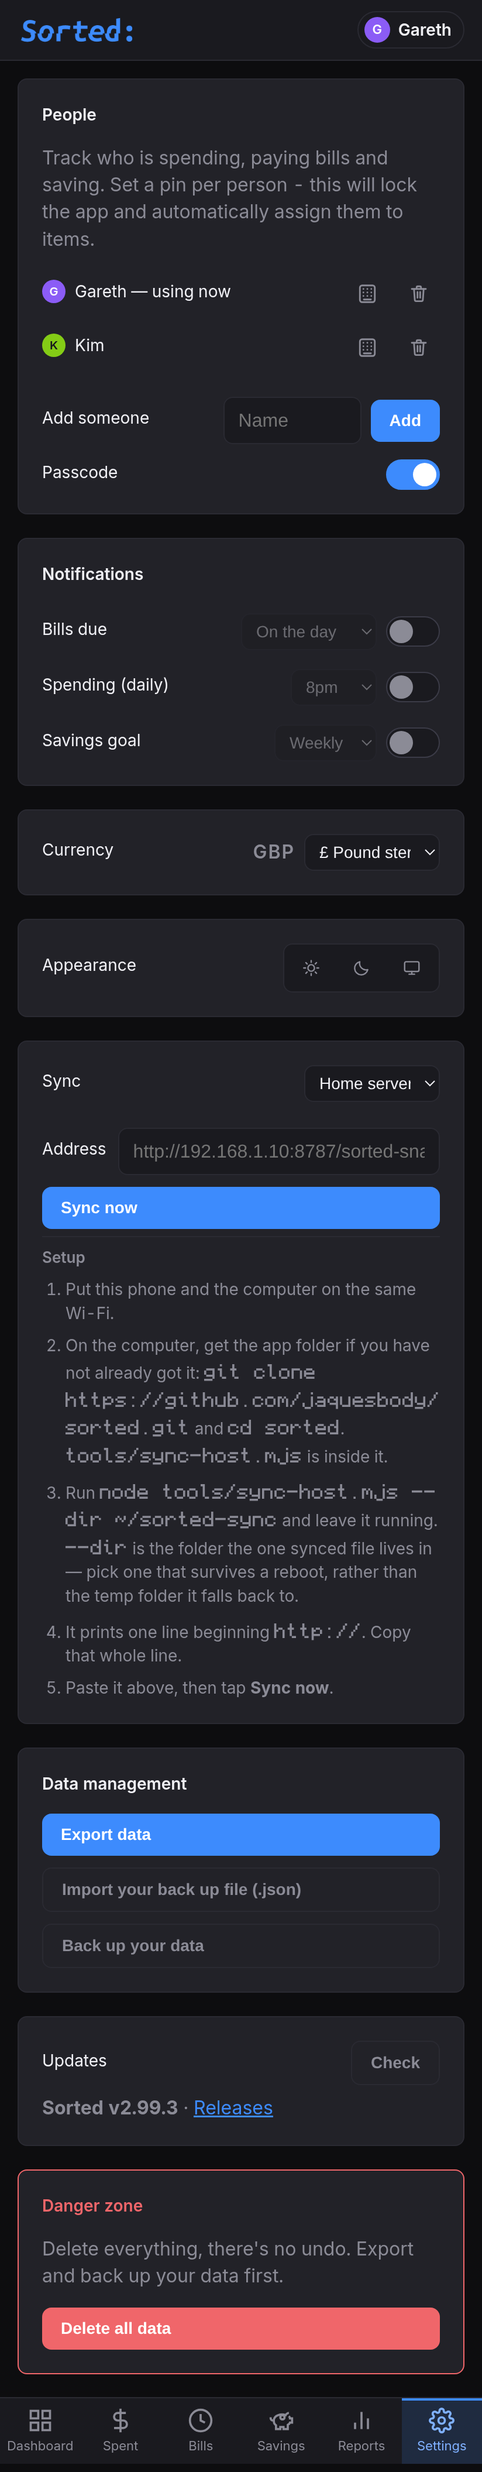
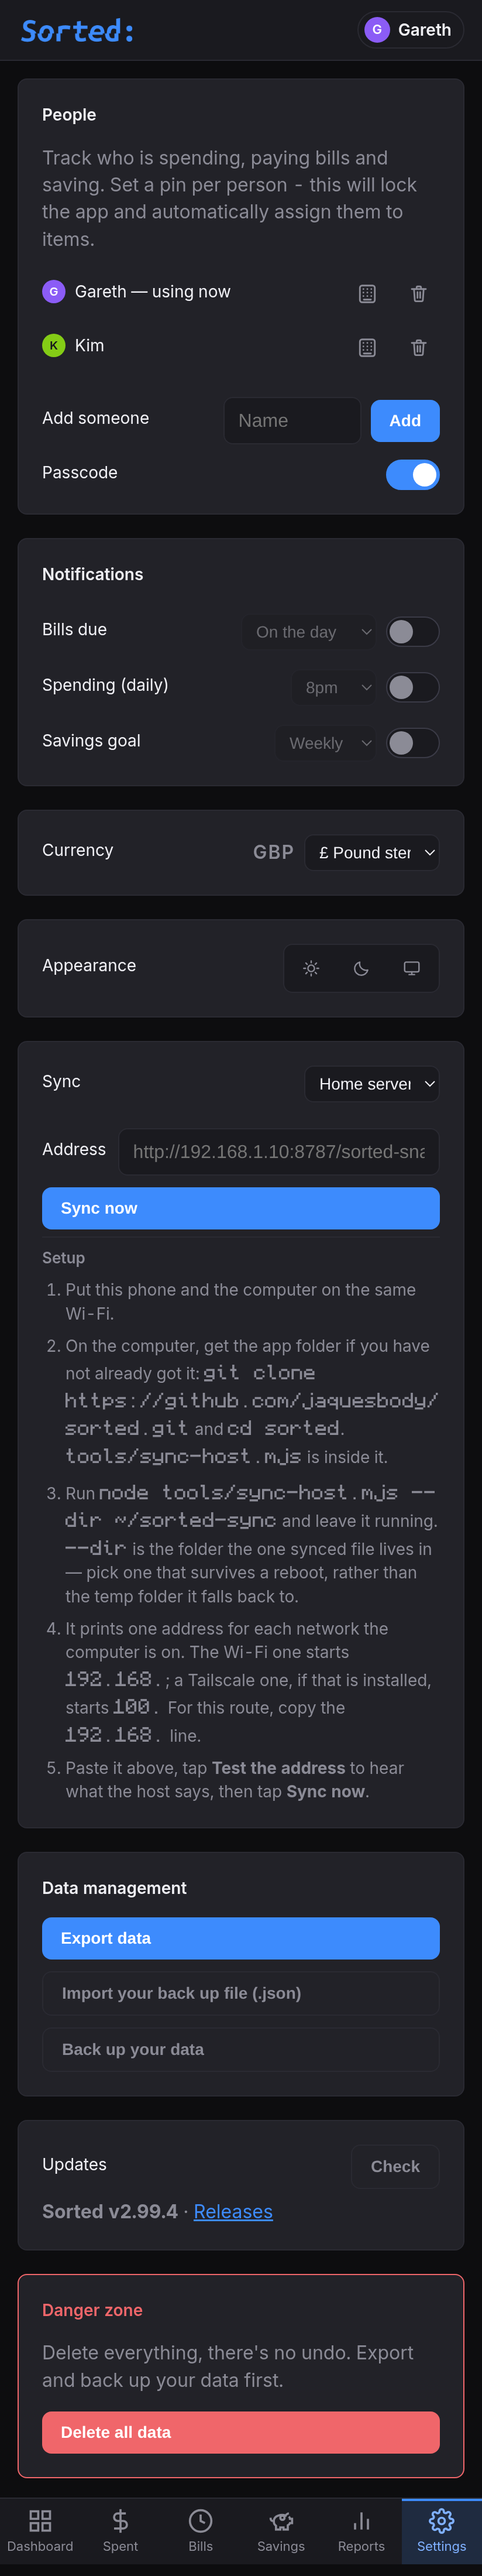
v2.99.4: say which address failed, and which of the four things went wrong
A sync that could not reach the host reported "Failed to fetch" — the browser's
own wording, passed straight through, and the same sentence for a dead machine,
a phone on the wrong network, a wrong file path and somebody else's server on
that port. It named none of them, and never mentioned the address, which is the
one thing all four have in common.

The setup guide was wrong in the same direction: the host prints one address for
each network it is on, and on a machine with Tailscale that is two lines, not the
one the guide promised.

- Test the address: a second button, shown once an address is in the box, which
  asks the host's /health and reports what it found rather than guessing.
- An address that is not one, or that is not the host's only path, is refused
  before anything is sent anywhere.
- "Failed to fetch" becomes "No answer from <address>..."; "Host said 404"
  becomes what to fix. Answers that already said something specific are left
  alone.
- The guide says which line belongs to which route, and what each starts with.
- The probe has a 6-second limit so it reports rather than hanging; syncing
  itself is untouched.

Read as a patch: the app's syncing does exactly what it did — the new button
reports, it does not sync. If a new control counts as gaining behaviour, this
should have been 2.100.0.

Tests: 678 passed, 0 failed (5 new).

Changed region(s): [[0.0303, 0.0, 0.9709, 1.0], [0.8192, 0.0, 0.9102, 0.0312], [0.7585, 0.0, 0.7888, 0.0312]]

diff --git a/docs/static/js/sync.js b/docs/static/js/sync.js
@@ -97,8 +97,8 @@ const SYNC_SETUP_STEPS = {
     'Put this phone and the computer on the same Wi-Fi.',
     'On the computer, get the app folder if you have not already got it: <code>git clone https://github.com/jaquesbody/sorted.git</code> and <code>cd sorted</code>. <code>tools/sync-host.mjs</code> is inside it.',
     'Run <code>node tools/sync-host.mjs --dir ~/sorted-sync</code> and leave it running. <code>--dir</code> is the folder the one synced file lives in — pick one that survives a reboot, rather than the temp folder it falls back to.',
-    'It prints one line beginning <code>http://</code>. Copy that whole line.',
-    'Paste it above, then tap <strong>Sync now</strong>.'
+    'It prints one address for each network the computer is on. The Wi-Fi one starts <code>192.168.</code>; a Tailscale one, if that is installed, starts <code>100.</code> For this route, copy the <code>192.168.</code> line.',
+    'Paste it above, tap <strong>Test the address</strong> to hear what the host says, then tap <strong>Sync now</strong>.'
   ],
   tailscale: [
     'Install Tailscale on the computer that stays on, and sign in.',
@@ -106,7 +106,7 @@ const SYNC_SETUP_STEPS = {
     'On the computer, get the app folder if you have not already got it: <code>git clone https://github.com/jaquesbody/sorted.git</code> and <code>cd sorted</code>. <code>tools/sync-host.mjs</code> is inside it.',
     'Run <code>node tools/sync-host.mjs --dir ~/sorted-sync</code> and leave it running. <code>--dir</code> is the folder the one synced file lives in — pick one that survives a reboot, rather than the temp folder it falls back to.',
     'Open Tailscale on the computer and copy its IP — it starts <code>100.</code>',
-    'Paste <code>http://that-ip:8787/sorted-snapshot.json</code> above, then tap <strong>Sync now</strong>.'
+    'Paste <code>http://that-ip:8787/sorted-snapshot.json</code> above, tap <strong>Test the address</strong>, then tap <strong>Sync now</strong>.'
   ],
   syncthing: [
     'Install Syncthing on the computer and on this phone, and pair them.',
@@ -248,7 +248,7 @@ function syncStamp(value) {
 async function readSyncSnapshot(url) {
   const res = await syncFetch(url, { method: 'GET' });
   if (res.status === 404) return null;          // nothing there yet
-  if (!res.ok) throw new Error('Host said ' + res.status);
+  if (!res.ok) throw new Error('The host answered ' + res.status + '.');
   const text = await res.text();
   let parsed;
   try { parsed = JSON.parse(text); } catch (err) {
@@ -258,13 +258,19 @@ async function readSyncSnapshot(url) {
   return parsed;
 }
 
+// A write can only fail at the address, and the host answers exactly one path,
+// so the two cases are "wrong path" and "something else went wrong over there".
+// "Host said 404" named neither.
 async function writeSyncSnapshot(url, snapshot) {
   const res = await syncFetch(url, {
     method: 'PUT',
     headers: { 'content-type': 'application/json' },
     body: JSON.stringify(snapshot)
   });
-  if (!res.ok) throw new Error('Host said ' + res.status);
+  if (res.status === 404) {
+    throw new Error('Nothing at that address on the host. It should end with /sorted-snapshot.json.');
+  }
+  if (!res.ok) throw new Error('The host answered ' + res.status + ', so nothing was saved.');
   return true;
 }
 
@@ -278,17 +284,24 @@ async function writeSyncSnapshot(url, snapshot) {
 // two. The browser build has none of this and goes straight to fetch.
 async function syncFetch(url, options) {
   const cap = window.Capacitor;
+  const opts = options || {};
+  // A probe has to report, not hang. fetch() has no timeout of its own, and an
+  // address that silently drops packets — a machine that is off, a phone on the
+  // wrong network — leaves the browser sitting there for over a minute before it
+  // finally says "Failed to fetch". Only the probe passes a limit; syncing
+  // itself does not, so a slow but working sync is never cut short.
+  const timeoutMs = Number(opts.timeoutMs) > 0 ? Number(opts.timeoutMs) : 0;
   if (cap && cap.isNativePlatform && cap.isNativePlatform() && cap.CapacitorHttp) {
     const response = await cap.CapacitorHttp.request({
       url: url,
-      method: options.method || 'GET',
-      headers: options.headers || {},
-      data: options.body,
+      method: opts.method || 'GET',
+      headers: opts.headers || {},
+      data: opts.body,
       // Without this a PUT body arrives as form-encoded and the host reads
       // garbage rather than JSON.
       serializer: 'json',
-      connectTimeout: 4000,
-      readTimeout: 8000
+      connectTimeout: timeoutMs || 4000,
+      readTimeout: timeoutMs || 8000
     });
     return {
       ok: response.status >= 200 && response.status < 300,
@@ -297,7 +310,75 @@ async function syncFetch(url, options) {
         ? response.data : JSON.stringify(response.data))
     };
   }
-  return fetch(url, options);
+  if (timeoutMs && typeof AbortController === 'function') {
+    const controller = new AbortController();
+    const timer = setTimeout(() => controller.abort(), timeoutMs);
+    try {
+      return await fetch(url, Object.assign({}, opts, { signal: controller.signal }));
+    } finally {
+      clearTimeout(timer);
+    }
+  }
+  return fetch(url, opts);
+}
+
+// ---------------------------------------------------------------- diagnosis
+
+// fetch() says "Failed to fetch" for every one of: nothing listening, the wrong
+// network, and a request the platform refused. Three different problems, one
+// sentence that names none of them — and the address is the common cause. So
+// name the address, and say what to look at.
+function syncHostBase(url) {
+  try { return new URL(url).origin; } catch (err) { return null; }
+}
+
+function syncReachMessage(url, err) {
+  const raw = String((err && err.message) || err);
+  const isTransport = /failed to fetch|networkerror|network error|load failed|timed? ?out|abort/i.test(raw);
+  if (!isTransport) return raw;
+  return 'No answer from ' + (syncHostBase(url) || url)
+    + '. Is the host running, and can this device reach it?';
+}
+
+// What "Test the address" asks: is there a Sorted host at the other end, and
+// what does it hold? The host answers /health with exactly that, and it is the
+// difference between "the machine is not running", "something else is on that
+// port" and "the host is fine, the address is not its file" — three outcomes
+// that reach the user today as the same sentence.
+async function syncTestAddress() {
+  const settings = syncSettings();
+  const transport = SYNC_TRANSPORTS[settings.transport];
+  if (!transport || !transport.available) {
+    return { state: 'unavailable', message: 'That sync option is not available yet.' };
+  }
+  const url = settings.url;
+  if (!url) return { state: 'empty', message: 'Put the address in first.' };
+  const base = syncHostBase(url);
+  if (!base) {
+    return { state: 'malformed', message: 'That is not a web address. Copy the whole line the host printed.' };
+  }
+  // The host answers two paths: the snapshot and /health. Two of the ways this
+  // is got wrong are visible without asking it anything, and they are the two
+  // cheapest to fix.
+  if (!/\/sorted-snapshot\.json$/.test(new URL(url).pathname)) {
+    return { state: 'wrong-path', message: 'The address has to end with /sorted-snapshot.json — that is the only file the host serves.' };
+  }
+
+  let res;
+  try {
+    res = await syncFetch(base + '/health', { method: 'GET', timeoutMs: 6000 });
+  } catch (err) {
+    return { state: 'unreachable', message: 'No answer from ' + base + '. Is the host running, and can this device reach it?' };
+  }
+  let body = null;
+  try { body = JSON.parse(await res.text()); } catch (err) { body = null; }
+  if (!res.ok || !body || body.ok !== true) {
+    return { state: 'not-the-host', message: 'Something answered at ' + base + ', but it is not the Sorted host.' };
+  }
+  if (body.snapshot) {
+    return { state: 'ready-with-file', message: 'The host is running, and it already holds a snapshot. Sync now compares the two.' };
+  }
+  return { state: 'ready-empty', message: 'The host is running, with nothing in its folder yet. Sync now puts your data there.' };
 }
 
 // ---------------------------------------------------------------- syncing
@@ -318,7 +399,14 @@ async function syncNow() {
   try {
     remote = await readSyncSnapshot(settings.url);
   } catch (err) {
-    return { ok: false, error: String((err && err.message) || err), where: 'host' };
+    return {
+      ok: false,
+      error: syncReachMessage(settings.url, err),
+      where: 'host',
+      // The words the transport actually used, kept for the gate rather than
+      // shown: it is the one thing that is not worth reading.
+      detail: String((err && err.message) || err)
+    };
   }
 
   const local = await buildSyncSnapshot();

diff --git a/tools/harness/test.js b/tools/harness/test.js
@@ -5787,6 +5787,84 @@ async function runSuite(driverBase) {
       check('a file that is not a snapshot is a failure',
         settings.detail.aFileThatIsNotASnapshotIsAFailure.pass, settings);
 
+      // 6. "Test the address", and the message it exists to replace. Every way
+      //    of getting the address wrong reaches the user as the same sentence —
+      //    "Failed to fetch" — which is the browser's wording and names none of
+      //    them. Two are visible without asking the host anything; the rest are
+      //    what the host's own /health is for.
+      const diagnosis = await run(`
+        const out = {};
+        const t = (label, got, want) => { out[label] = { got: got, want: want, pass: got === want }; };
+        const realFetch = window.fetch;
+        window.__asked = [];
+        window.__host = null;          // null stands for "nothing is listening"
+        window.fetch = async (url) => {
+          window.__asked.push(String(url));
+          if (window.__host === null) throw new TypeError('Failed to fetch');
+          return { ok: true, status: 200, text: async () => JSON.stringify(window.__host) };
+        };
+
+        setSyncSettings({ transport: 'lan', url: '' });
+        t('noAddressIsSaidPlainly', (await syncTestAddress()).state, 'empty');
+
+        setSyncSettings({ url: '192.168.1.10:8787/sorted-snapshot.json' });
+        t('junkIsNotAnAddress', (await syncTestAddress()).state, 'malformed');
+
+        setSyncSettings({ url: 'http://192.168.1.10:8787/' });
+        t('theWrongFileIsNamed', (await syncTestAddress()).state, 'wrong-path');
+
+        setSyncSettings({ url: 'http://192.168.1.10:8787/sorted-snapshot.json' });
+        t('aDeadHostIsUnreachable', (await syncTestAddress()).state, 'unreachable');
+
+        window.__host = { ok: true, snapshot: false, dir: '/home/x/sorted-sync' };
+        t('aHostWithAnEmptyFolder', (await syncTestAddress()).state, 'ready-empty');
+        window.__host = { ok: true, snapshot: true, dir: '/home/x/sorted-sync' };
+        t('aHostThatAlreadyHasTheFile', (await syncTestAddress()).state, 'ready-with-file');
+        t('theProbeAsksHealthNotTheFile',
+          window.__asked[window.__asked.length - 1], 'http://192.168.1.10:8787/health');
+
+        // Something else entirely on that port — the wrong address rather than
+        // the wrong network, and the one case a reachability test cannot tell
+        // from success.
+        window.__host = { hello: 'a web server, but not this one' };
+        t('somethingElseOnThatPort', (await syncTestAddress()).state, 'not-the-host');
+        window.__host = null;
+
+        // And what a dead host produces, which is the whole point: the address
+        // it could not reach, and what to check, instead of the browser's words.
+        const dead = await syncNow();
+        t('aDeadHostNamesTheAddress', /No answer from http:\\/\\/192\\.168\\.1\\.10:8787/.test(dead.error), true);
+        t('andItSaysWhatToCheck', /Is the host running/.test(dead.error), true);
+        t('andTheBrowserWordingIsNotShown', /Failed to fetch/.test(dead.error), false);
+        t('andTheRawWordingIsKeptAsideRatherThanThrownAway', dead.detail, 'Failed to fetch');
+
+        // An ordinary failure of the host's own is left as it is: it says
+        // something specific, and rewriting it would only make it vaguer.
+        t('aRealAnswerIsPassedThrough', syncReachMessage('http://x/y', new Error('The host answered 500.')), 'The host answered 500.');
+
+        window.fetch = realFetch;
+        localStorage.removeItem('sorted-sync-settings');
+        return { checks: Object.keys(out).length, failures: Object.entries(out).filter(([, v]) => !v.pass).map(([k]) => k), detail: out };
+      `);
+      check('the address is read before anything is sent to it',
+        diagnosis.detail.noAddressIsSaidPlainly.pass
+        && diagnosis.detail.junkIsNotAnAddress.pass
+        && diagnosis.detail.theWrongFileIsNamed.pass, diagnosis);
+      check('and the host is asked, so a dead machine, an empty folder and somebody else\'s server are told apart',
+        diagnosis.detail.aDeadHostIsUnreachable.pass
+        && diagnosis.detail.aHostWithAnEmptyFolder.pass
+        && diagnosis.detail.aHostThatAlreadyHasTheFile.pass
+        && diagnosis.detail.somethingElseOnThatPort.pass, diagnosis);
+      check('the probe asks /health, not the snapshot',
+        diagnosis.detail.theProbeAsksHealthNotTheFile.pass, diagnosis);
+      check('a host that cannot be reached names the address, not the browser',
+        diagnosis.detail.aDeadHostNamesTheAddress.pass
+        && diagnosis.detail.andItSaysWhatToCheck.pass
+        && diagnosis.detail.andTheBrowserWordingIsNotShown.pass
+        && diagnosis.detail.andTheRawWordingIsKeptAsideRatherThanThrownAway.pass, diagnosis);
+      check('an answer that does say something is left alone',
+        diagnosis.detail.aRealAnswerIsPassedThrough.pass, diagnosis);
+
     console.log('\n# notifications: the plan, the memory, and the native route');
 
       // ---------------------------------------------------------------

diff --git a/docs/static/js/app.js b/docs/static/js/app.js
@@ -2,7 +2,7 @@
 
 // Single source for the version shown in the UI. Bump this together with
 // package.json and android/app/build.gradle.
-const APP_VERSION = '2.99.3';
+const APP_VERSION = '2.99.4';
 document.querySelectorAll('.app-version').forEach((el) => { el.textContent = 'v' + APP_VERSION; });
 
 let currentPage = 'dashboard';
@@ -1795,6 +1795,9 @@ function syncSettingsHtml() {
     <button class="btn btn-primary" onclick="syncFromSettings(this)"
             style="width: 100%; margin-top: 10px;"
             ${ready ? '' : 'disabled'}>Sync now</button>
+    ${ready ? `
+    <button class="btn btn-ghost" onclick="syncTestFromSettings(this)"
+            style="width: 100%; margin-top: 8px;">Test the address</button>` : ''}
     <div class="setup-steps">
       <div class="setup-steps-head">Setup</div>
       <ol class="setup-steps-list">
@@ -1827,6 +1830,25 @@ async function syncFromSettings(btn) {
   }
   await renderPage();
   if (message) showToast(message, 6000);
+}
+
+// The Test button, and the reason it exists: the transport can only ever say
+// "Failed to fetch" for a dead host, a wrong network and a refused request
+// alike. Asking the host what it is turns that one sentence into the one thing
+// that is actually wrong.
+async function syncTestFromSettings(btn) {
+  if (btn) { btn.disabled = true; btn.textContent = 'Testing…'; }
+  let result;
+  try {
+    result = await syncTestAddress();
+  } catch (err) {
+    result = { message: String((err && err.message) || err) };
+  }
+  // No renderPage() here, unlike the two buttons above: nothing about the page
+  // has changed, and rebuilding the card would take the button that is being
+  // pressed out from under the cursor.
+  if (btn) { btn.disabled = false; btn.textContent = 'Test the address'; }
+  if (result && result.message) showToast(result.message, 8000);
 }
 
 async function restoreSyncBackupFromSettings(btn) {

diff --git a/README.md b/README.md
@@ -36,9 +36,9 @@ All six are the same household on a 412px phone viewport: Gareth and Kim, a curr
 - Three reminders, each off until you ask for it: bills coming due or already overdue, nothing recorded today, and a savings goal going untouched. On Android these are scheduled by the system, so they arrive whether or not Sorted is open — bills in the morning, the other two at a time you pick. In a browser there's no way to wake the app at a set hour, so the same checks run when you open it and put it away, and the settings say so rather than implying more
 - Start Over: delete everything and start from empty, in Settings. A new install starts empty too — there's no sample data to delete. The first thing it shows instead is a card saying what the app does with your data, and then never again
 - Sync, in Settings: keep a copy of everything on a machine that stays on, and take it with you when you change phone. The whole database goes as one file, and whichever device wrote it last is what the other one gets — so a bill you delete on one device stays deleted on the other, rather than coming back on the next sync. Before anything is replaced, the copy it replaced is kept, with a Restore button beside it
-- Setting it up is **one address and one button**: pick where in the dropdown, paste the address, press **Sync now**. Before anything is replaced, the copy it replaced is kept, with a Restore button beside it
+- Setting it up is **one address and one button**: pick where in the dropdown, paste the address the host printed, press **Sync now**. Once an address is there a second button appears beside it — **Test the address** — which asks the host what it is and says so back: a dead machine, an empty folder, a wrong file and somebody else's server all read differently, rather than as the browser's "Failed to fetch" for all four. Before anything is replaced, the copy it replaced is kept, with a Restore button beside it
 - Underneath sits **a numbered setup guide for whichever transport is selected** — where to get the address from, in order, including the command to run. Two of the four exist and are described as they work: **Home server** over your Wi-Fi, and **Tailscale** (works, and from outside the house, over the same file). **Syncthing** and **Cloud** are in the dropdown with their picker disabled until they exist, and their steps describe what the implementation will take rather than showing nothing
-- To run the other end, on any machine with Node: clone the folder and, from inside it, `node tools/sync-host.mjs --dir ~/sorted-sync`. The script is at `tools/sync-host.mjs`; `--dir` is the folder the one synced file lives in, and left off it goes to the system's temp folder, which a reboot can empty. It serves that one file over your Wi-Fi and nothing else — no database, no accounts, no history — and prints the address to paste into Settings
+- To run the other end, on any machine with Node: clone the folder and, from inside it, `node tools/sync-host.mjs --dir ~/sorted-sync`. The script is at `tools/sync-host.mjs`; `--dir` is the folder the one synced file lives in, and left off it goes to the system's temp folder, which a reboot can empty. It serves that one file over your Wi-Fi and nothing else — no database, no accounts, no history — and prints one address for each network the machine is on, the Wi-Fi one beginning `192.168.` among them, for pasting into Settings
 - Export offers three formats rather than one, because they do three different jobs: a **`.csv`** of every dated movement for Excel, Numbers or Google Sheets, a readable **`.txt`** statement grouped by month, and a **`.pdf`** of the same rows typeset. The **`.json` backup** — the only one Import can read back — is its own **Back up your data** button on the Data Management card, because a backup is a different question from a format for reading. Everything is saved through Android's own save screen, where you pick the folder and the file name, and is an ordinary download in a browser. The PDF is written by the app itself: no print dialog, no library, and no network
 - Reminders, each off until you ask for it, saying exactly this:
   - **"Sorted — bill due"** — *"Rent is due Thursday"* (or *"… is overdue"*)
@@ -96,7 +96,7 @@ Served over HTTPS, Chrome will also offer to install it — there's a web manife
 
 ### Android (APK)
 
-Grab [`sorted-v2-2.99.3-debug.apk`](https://github.com/jaquesbody/sorted/releases/download/v2.99.3/sorted-v2-2.99.3-debug.apk) from the [releases page](https://github.com/jaquesbody/sorted/releases/latest) and sideload it (your phone will ask to allow installs from unknown sources). It's the same app wrapped in a WebView — fully offline, data stored on the phone. The phone build moves the six destinations into a bottom bar; append `?native` to the web URL to preview that layout in a desktop browser.
+Grab [`sorted-v2-2.99.4-debug.apk`](https://github.com/jaquesbody/sorted/releases/download/v2.99.4/sorted-v2-2.99.4-debug.apk) from the [releases page](https://github.com/jaquesbody/sorted/releases/latest) and sideload it (your phone will ask to allow installs from unknown sources). It's the same app wrapped in a WebView — fully offline, data stored on the phone. The phone build moves the six destinations into a bottom bar; append `?native` to the web URL to preview that layout in a desktop browser.
 
 APKs are build artefacts, so they live in releases rather than in this repo — every past build is still on the releases page.
 
